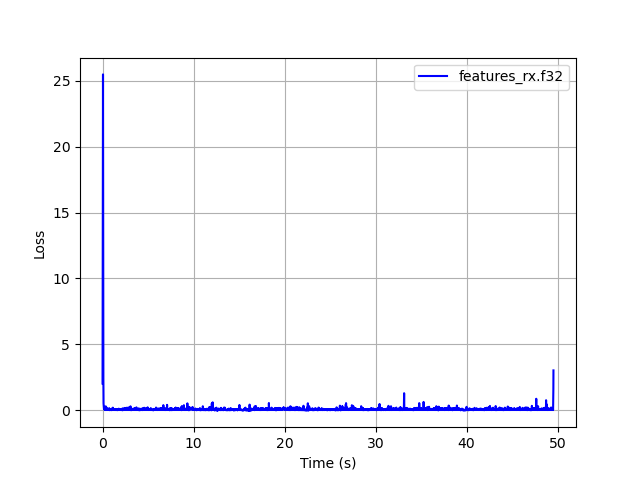
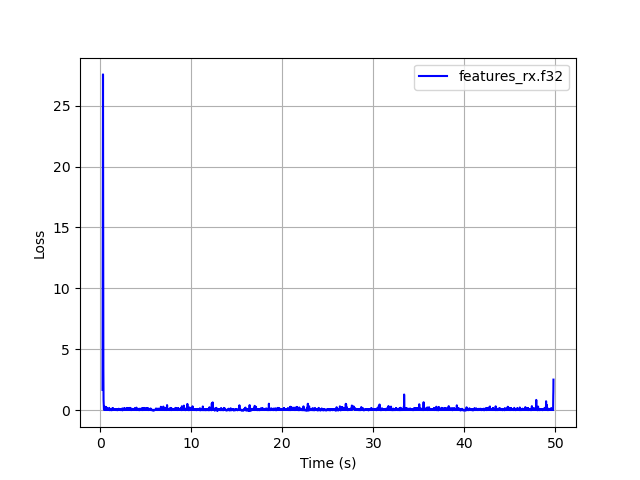
Verification procedure: make rade_c the primary reference path
In practice every real integration uses rade_c, not pure Python, so the
verification procedure now assumes and demonstrates the rade_c library
throughout rather than treating it as a secondary case:

- Scope: states the rade_c integration assumption up front.
- Requirements: RX-only reference transmitter is rade_tx_wav, not tx2.py.
- Step 1 (baseline): uses rade_tx_wav/rade_rx_wav instead of tx2.py/rx2.py.
- RX-only worked example: simplified, no longer needs the f32toint16/sox
  conversion dance since rade_tx_wav already outputs a WAV directly.
- Cross-referenced Step 1 to the existing Worked Example section (already
  rade_c-based) for clip-value guidance and the --compare pass/fail
  pattern, rather than duplicating that content.
- Refreshed all baseline/example loss numbers and the two plot PNGs
  against the current build (0.113/0.082 -> 0.111/0.079) -- the old
  values had gone stale relative to the doc's own "don't use a cached
  value" guidance.

README.md's verification section trimmed to a short pointer at
verification_procedure.md, removing a duplicated baseline command block
that would otherwise need updating in two places every time the model
or baseline shifts.

Claude-Session: https://claude.ai/code/session_01PzNQqmYXwUStAMrN4a5GFy

diff --git a/doc/verification/verification_procedure.md b/doc/verification/verification_procedure.md
@@ -7,10 +7,12 @@ or hardware radio. The goal is to confirm the signal path is clean — no droppe
 sample buffers, no unintended DSP, no scaling errors — so that any on-air results
 reflect RADE performance, not integration issues.
 
-**Scope:** This procedure tests integration correctness only. It does not
-evaluate speech quality, compare V1 vs V2, or directly assess radio hardware
-performance. Any additional tests beyond this procedure should be agreed with
-the RADE team before being submitted as results.
+**Scope:** This procedure assumes the application under test integrates the
+`rade_c` library (C port of reference Python). It tests integration correctness
+only — it does not evaluate speech quality, compare V1 vs V2, or directly
+assess radio hardware performance. Any additional tests beyond this
+procedure should be agreed with the RADE team before being submitted as
+results.
 
 ## Requirements
 
@@ -18,8 +20,8 @@ the RADE team before being submitted as results.
   input (Tx) and RADE decoder output (Rx) to disk files, for use with `loss.py`.
   See `rade_tx_wav -f` and `rade_rx_wav -f` in the rade_c repo, and the
   `rade_c_v2_wav` ctest, for worked examples.
-- **RX-only applications** (no transmit capability) should use `tx2.py` from
-  this repository as the reference transmitter, generating the TX WAV at
+- **RX-only applications** (no transmit capability) should use `rade_c`'s
+  `rade_tx_wav` as the reference transmitter, generating the TX WAV at
   test time so it tracks any model changes. For OTAC and OTC tests, the TX
   WAV must be played using a simple command-line tool with no signal
   processing (e.g. `aplay`, `afplay`, or `ffplay`). See the RX-only worked
@@ -69,25 +71,28 @@ Tests the complete hardware chain.
 
 ### Step 1 — Establish the current baseline
 
-Re-run the following with the latest version of this repository to obtain the
-current software-only baseline. Do not use a cached value — the baseline shifts
-slightly between model versions.
+Re-run the following with the latest version of `rade_c` to obtain the
+current software-only baseline. Do not use a cached value — the baseline
+shifts slightly between model versions.
 
 ```
-cd ~/radae
-lpcnet_demo -features wav/all.wav features_in.f32
-python3 tx2.py 250725/checkpoints/checkpoint_epoch_200.pth features_in.f32 tx.f32
-python3 rx2.py 250725/checkpoints/checkpoint_epoch_200.pth 250725a_ml_sync tx.f32 features_rx.f32 --quiet
-python3 loss.py features_in.f32 features_rx.f32 --clip_start 100 --clip_end 300
+cd ~/rade_c/build
+./src/rade_tx_wav --v2 -f features_tx.f32 ../wav/all.wav tx.wav
+./src/rade_rx_wav --v2 -f features_rx.f32 tx.wav decoded.wav
+python3 ~/radae/loss.py features_tx.f32 features_rx.f32 --clip_start 100 --clip_end 300
 ```
 
-Example output (Python reference, `wav/all.wav`, model `250725`, commit `b549586`):
+Example output (`rade_c` reference, `wav/all.wav`, model `250725`):
 ```
-loss: 0.081 start: 224 acq_time:  1.24 s
+loss: 0.079 start: 224 acq_time:  1.24 s
 ```
 
-Record the current baseline loss value and the git commit hash used
+Record the current baseline loss value and the `rade_c` git commit hash used
 (e.g. `git log --oneline -1` → `cafebabe`). **A pass is within ±10% of the baseline.**
+
+See [Worked Example of Loss Tests](#worked-example-of-loss-tests) below for
+guidance on choosing `--clip_start`/`--clip_end` and an automated pass/fail
+pattern using `--compare`.
 
 ### Step 2 — Level 1: Software loopback
 
@@ -138,8 +143,8 @@ python3 ~/radae/loss.py features_tx.f32 features_rx.f32 \
 
 ![Loss before clipping](loss_unclipped.png)
 
-The spike at the start (~22) is the RADE acquisition transient; the smaller
-spike at the end (~3) is the end-of-over frame. Both are expected behaviour
+The spike at the start (~28) is the RADE acquisition transient; the smaller
+spike at the end (~2.5) is the end-of-over frame. Both are expected behaviour
 from the state machine. Clip them out and re-run:
 
 ```
@@ -150,7 +155,7 @@ python3 ~/radae/loss.py features_tx.f32 features_rx.f32 \
 
 ![Loss after clipping](loss_clipped.png)
 
-With transients removed, loss drops from 0.113 to 0.082 — consistent with
+With transients removed, loss drops from 0.111 to 0.079 — consistent with
 the reference baseline. `--clip_start 100` (1 s) and `--clip_end 300` (3 s)
 are conservative defaults; your integration may need different values
 depending on acquisition time. Use `--plot` to check.
@@ -177,47 +182,40 @@ python3 ~/radae/loss.py features_tx.f32 features_rx_ref.f32 \
 
 Output:
 ```
-loss1: 0.082 loss2: 0.082 delta: 0.000
+loss1: 0.079 loss2: 0.079 delta: 0.000
 PASS
 ```
 
 `loss.py` prints `PASS` or `FAIL` and exits with code 0 or 1 respectively,
 making it suitable for use in CI scripts. A `--delta` of 0.008 corresponds
-to approximately ±10% of the V2 software loopback baseline (0.082).
+to approximately ±10% of the V2 software loopback baseline (0.079).
 
 ### RX-only application
 
-For applications with no transmit capability, use `tx2.py` to generate the
-reference TX signal, then convert to a real-valued WAV for playback or
-loopback testing. The `tx.f32` IQ file is already generated in Step 1.
+For applications with no transmit capability, use `rade_tx_wav` to generate
+the reference TX WAV — `tx.wav` and `features_tx.f32` are already generated
+in Step 1, no format conversion needed.
 
-Convert to a real-valued 8 kHz mono WAV:
-
-```
-python3 f32toint16.py --real --scale 16384 < tx.f32 | \
-    sox -t s16 -r 8000 -c 1 - tx_real.wav
-```
-
-For a software loopback test, feed `tx_real.wav` directly to your
-application's RX input and export `features_rx.f32`. For OTAC or OTC tests,
-play `tx_real.wav` via a command-line audio player:
+For a software loopback test, feed `tx.wav` directly to your application's
+RX input and export `features_rx.f32`. For OTAC or OTC tests, play `tx.wav`
+via a command-line audio player:
 
 ```
-aplay tx_real.wav      # Linux
-afplay tx_real.wav     # macOS
-ffplay tx_real.wav     # Windows / cross-platform
+aplay tx.wav      # Linux
+afplay tx.wav     # macOS
+ffplay tx.wav     # Windows / cross-platform
 ```
 
 Then measure loss against the TX features from Step 1:
 
 ```
-python3 loss.py features_in.f32 features_rx.f32 \
+python3 ~/radae/loss.py features_tx.f32 features_rx.f32 \
     --clip_start 100 --clip_end 300
 ```
 
 Expected output (V2, software loopback, `wav/all.wav`):
 ```
-loss: 0.083 start: 224 acq_time:  1.24 s
+loss: 0.079 start: 224 acq_time:  1.24 s
 ```
 
 ## Submitting Results

diff --git a/README.md b/README.md
@@ -267,22 +267,6 @@ issues.
 The full procedure, including a checklist template for submitting results, is
 in [doc/verification/verification_procedure.md](doc/verification/verification_procedure.md).
 
-A software-only loss baseline must be established using the current version
-of the code under test — loss values shift slightly between model versions.
-We use the reference Python implementation and `wav/all.wav` to establish
-the baseline; re-run with the latest version to obtain the current baseline:
-```
-lpcnet_demo -features wav/all.wav features_in.f32
-python3 tx2.py 250725/checkpoints/checkpoint_epoch_200.pth features_in.f32 tx.f32
-python3 rx2.py 250725/checkpoints/checkpoint_epoch_200.pth 250725a_ml_sync tx.f32 features_rx.f32 --quiet
-python3 loss.py features_in.f32 features_rx.f32 --clip_start 100 --clip_end 300
-```
-Example output (Python reference, `wav/all.wav`, model `250725`, commit `b549586`):
-```
-loss: 0.081 start: 224 acq_time:  1.24 s
-```
-Record the current baseline loss value. A pass is within ±10% of the baseline.
-
 ## Stored File Tests
 
 The `ota_test.sh` script supports stored-file over-the-air and over-the-cable testing.  It assembles a transmit file containing a chirp reference, compressed SSB, RADE V1, and RADE V2 signals in sequence, which can be sent over a real HF channel or processed through a channel simulator.  The script performs a *controlled* test of SSB, RADE V1, and RADE V2 over real-world channels.
